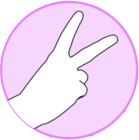
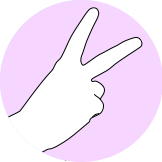
Improve images quality and update page background color

Changed region(s): [[0.0, 0.0, 1.0, 1.0], [0.518, 0.2857, 0.5468, 0.3143]]

diff --git a/public/stylesheets/style.css b/public/stylesheets/style.css
@@ -1,7 +1,7 @@
 body {
   padding: 50px;
   font: 18px Roboto, Helvetica, Arial, sans-serif;
-  background-color: #BCEDF6;
+  background-color: #FFFAE6;
 }
 
 a {
